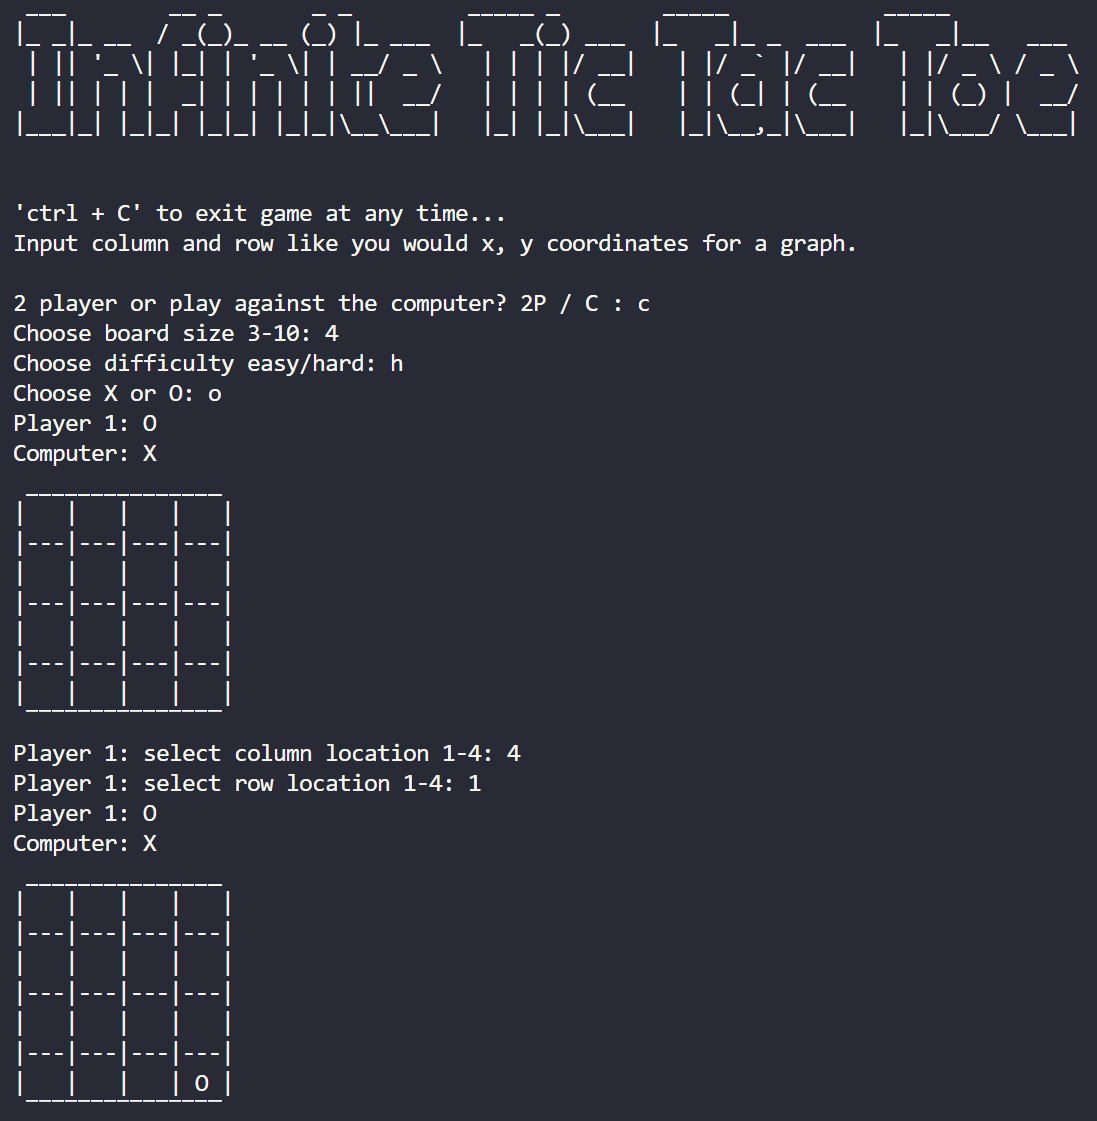
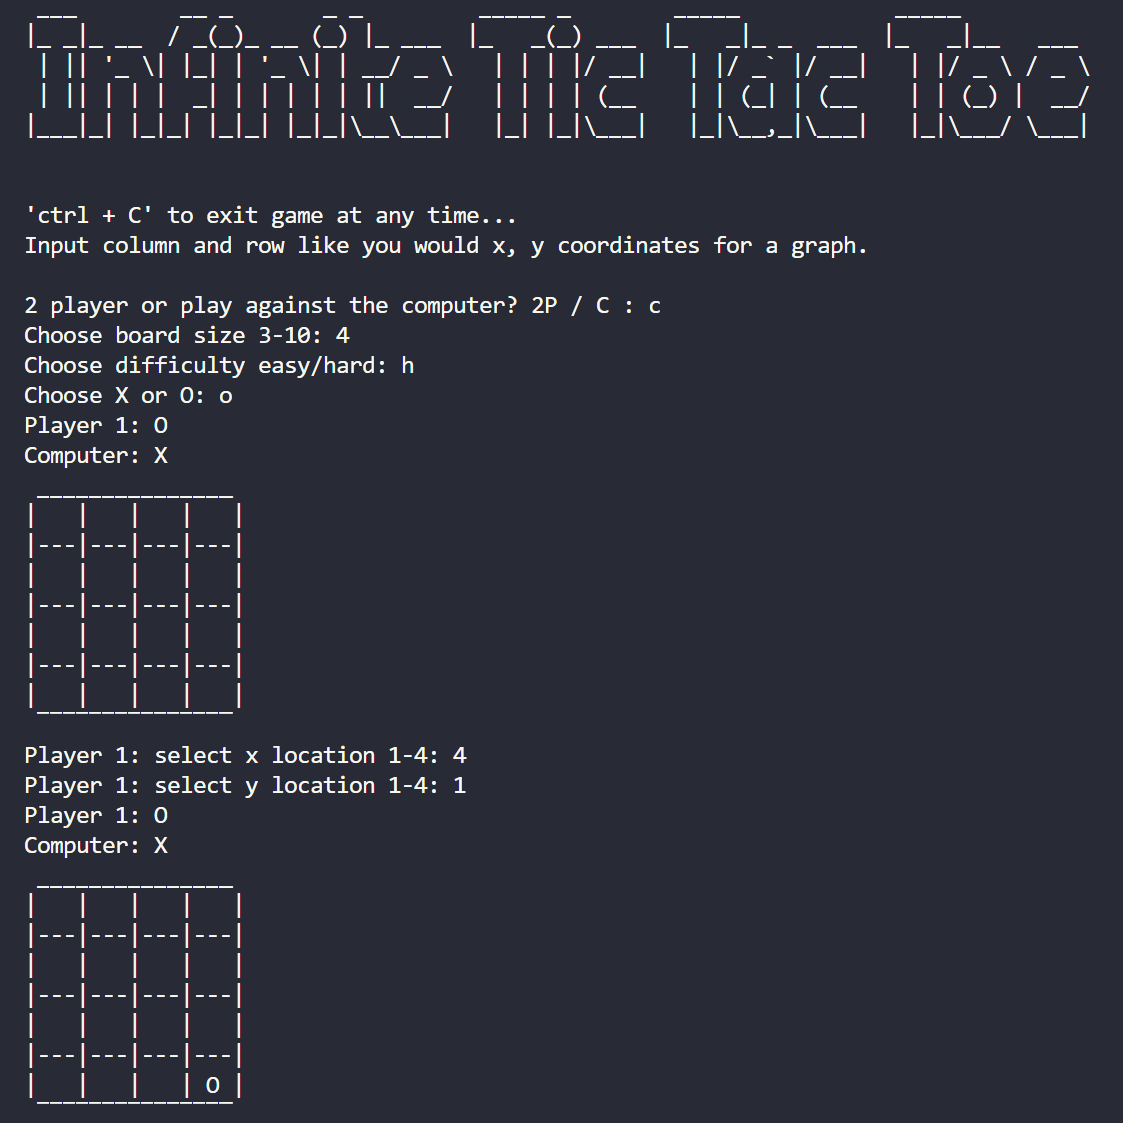
Update: play input text and README with updated layout

diff --git a/helpers/messages/messages.py b/helpers/messages/messages.py
@@ -18,8 +18,8 @@ def error_message(message_code: str, *details: any) -> str:
 
 USER_MESSAGES = {
     "1": "Choose {} or {}: ",
-    "2": "{} select row location {}-{}: ",
-    "3": "{} select column location {}-{}: ",
+    "2": "{} select y location {}-{}: ",
+    "3": "{} select x location {}-{}: ",
     "4": "'ctrl + C' to exit game at any time...\n\
 Input column and row like you would \
 x, y coordinates for a graph.\n",

diff --git a/README.md b/README.md
@@ -92,12 +92,14 @@ The computer will adhere to the following order of operation:
  - Generate all arguments for each: row, column, and both diagonals
    - first for the best win/progress move
    - then for the best player prevention move
- <img src='static\generate_computer_priorities.png' alt='Generate computer priorities' width='600'>
+
+<p align="center"><img src='static\generate_computer_priorities.png' alt='Generate computer priorities' width='600'></p>
 
 **run all generated priority arguments on the consideration function in order...**
 - Pass in the generated priority arguments into the consider function
     - if any of the priority requirements are met the function will return a placement location
-<img src='static\run_computer_priorities.png' alt='Run computer priorities' width='400'>
+
+<p align="center"><img src='static\run_computer_priorities.png' alt='Run computer priorities' width='400'></p>
 
 > NOTE: *play modes do not affect the game board size, this is an additional feature*
 <a id='how_to_play'></a>
@@ -105,10 +107,19 @@ The computer will adhere to the following order of operation:
 ## <img src='static/how_to_play.png' alt='How to play?' width='350'>
 
 ### Game example:
+---
+---
+<p align="center">
 <img src='static/game_input_example.png' alt='Game input example' width='500'>
+</p>
+
+---
+---
 
 ### Board size examples:
-<img src='static/10x10_gameboard.png' alt='10x10 tic tac toe game board' width='300'><img src='static/3x3_gameboard.png' alt='3x3 tic tac toe game board' width='100'>
+<p align="center">
+<img src='static/10x10_gameboard.png' alt='10x10 tic tac toe game board' width='300'><img src='static/5x5_gameboard.png' alt='5x5 game board' width='157'><img src='static/3x3_gameboard.png' alt='3x3 tic tac toe game board' width='98'>
+</p>
 
 <a id='built_with'></a>
 
